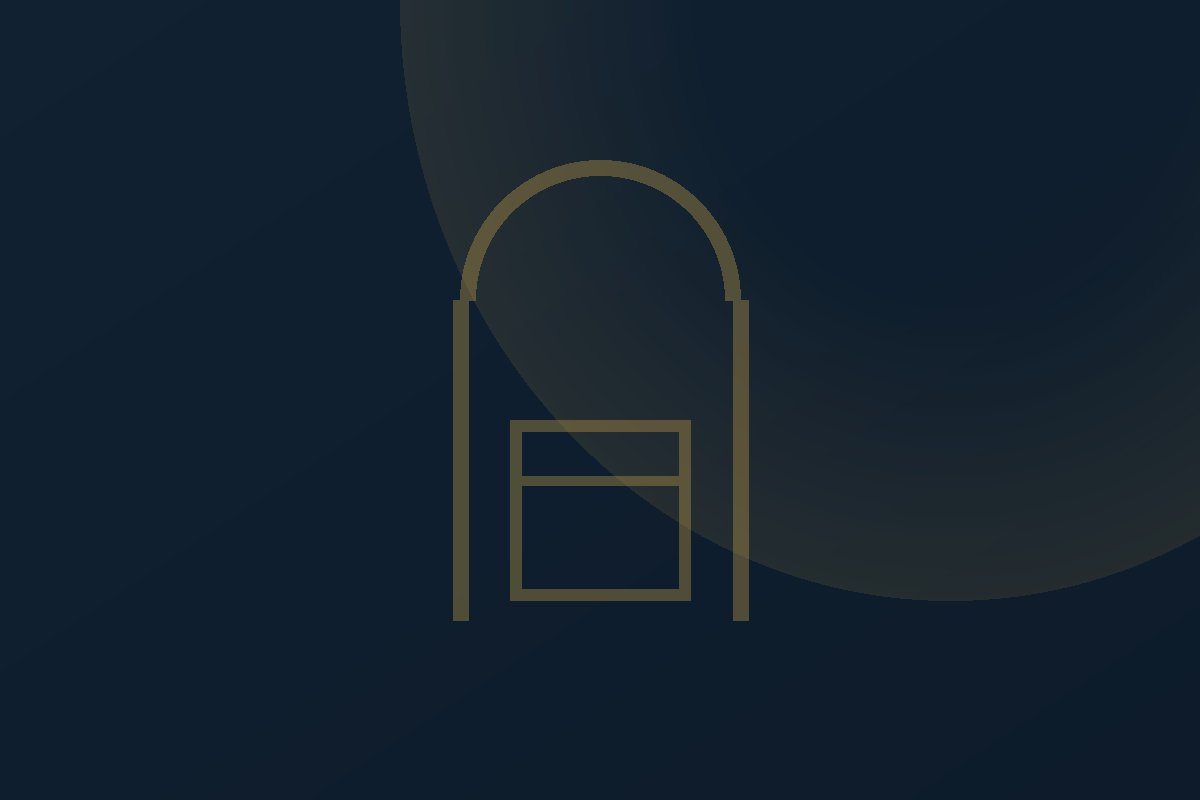
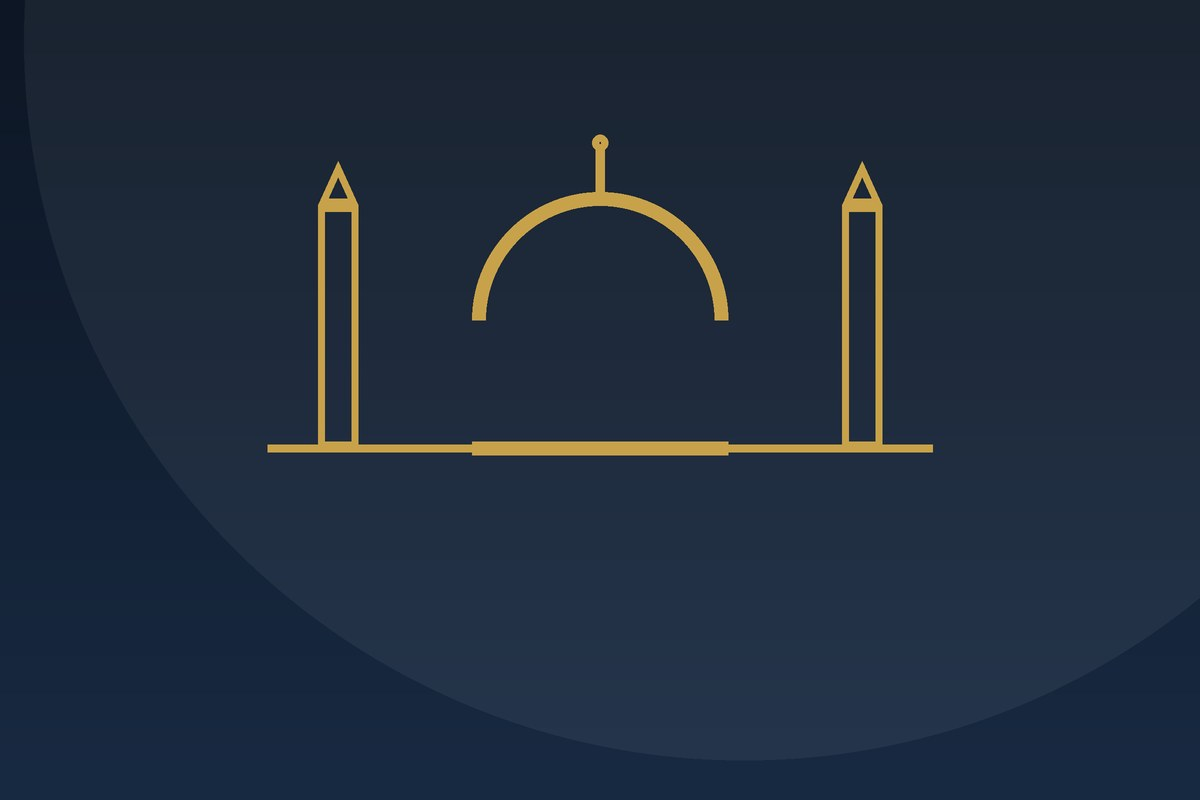
Add departure month filter, real merch photos, fix duplicate placeholder covers

Changed region(s): [[0.2158, 0.1562, 1.0, 0.9688]]

diff --git a/src/lib/mock-data.ts b/src/lib/mock-data.ts
@@ -26,6 +26,9 @@ const AGENCY_LOGOS: Record<string, string> = {
 const avatar = (seed: string, ..._rest: unknown[]) =>
   AGENCY_LOGOS[seed] ?? "/placeholders/logo-alsafa.png";
 
+// 9 visually distinct icons (gate, dome+minarets, Kaaba, crescent+star, flight
+// path, tasbih beads, qibla compass, suitcase, passport+ticket) — one per
+// current agency/package below, so no two cards show the identical cover.
 const COVER_IMAGES = [
   "/placeholders/cover-1.jpg",
   "/placeholders/cover-2.jpg",
@@ -33,6 +36,9 @@ const COVER_IMAGES = [
   "/placeholders/cover-4.jpg",
   "/placeholders/cover-5.jpg",
   "/placeholders/cover-6.jpg",
+  "/placeholders/cover-7.jpg",
+  "/placeholders/cover-8.jpg",
+  "/placeholders/cover-9.jpg",
 ];
 let coverIndex = 0;
 const cover = (..._rest: unknown[]) => {
